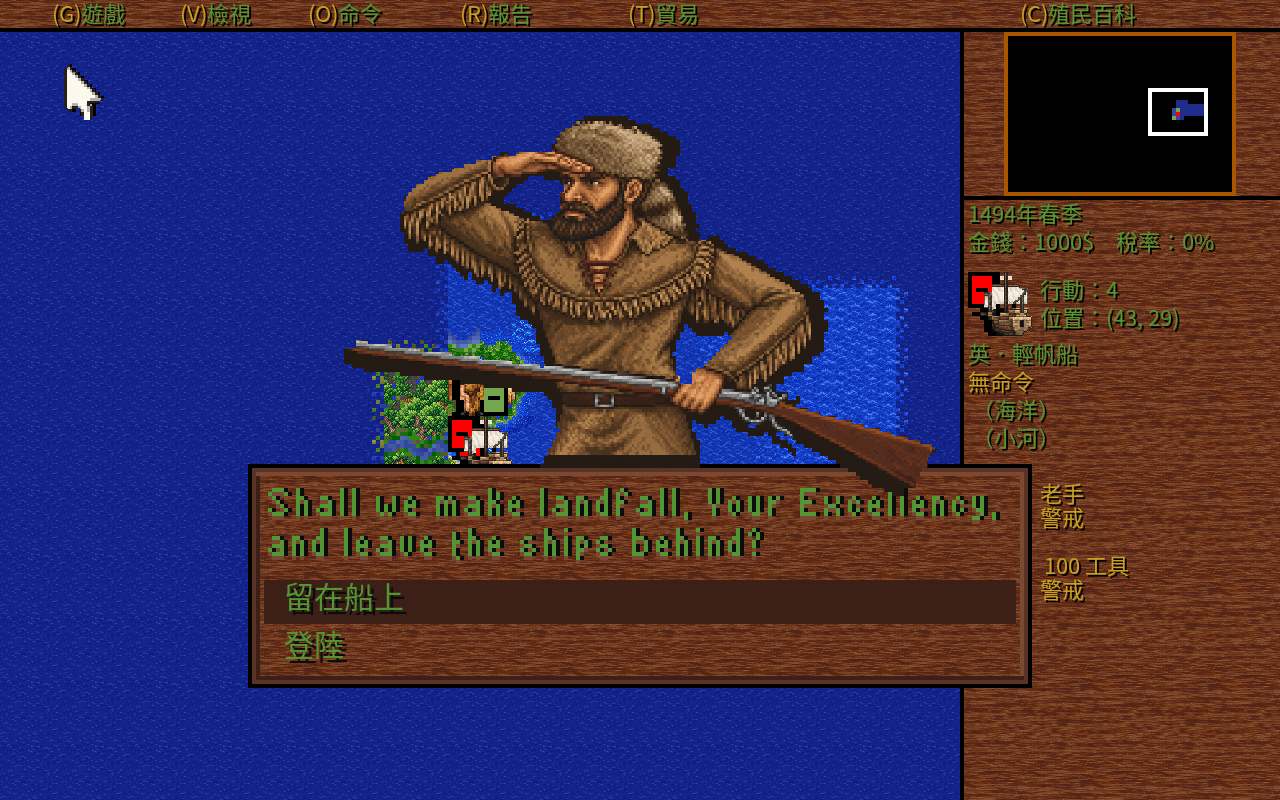
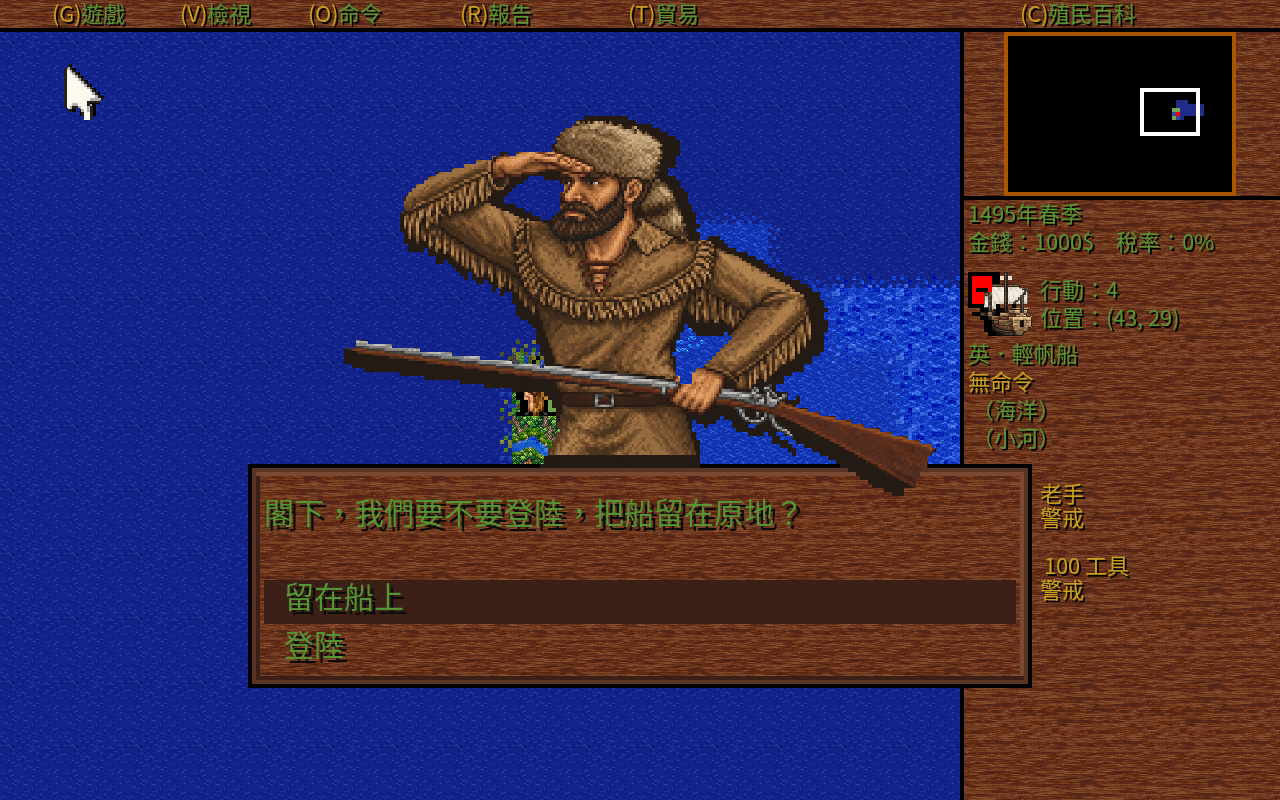
docs: refresh localized landfall capture and verification handoff

diff --git a/WORKLOG.md b/WORKLOG.md
@@ -7459,3 +7459,17 @@ timeout 180 docker run --rm --network none --user 1000:1000 \
 - 為清理先透過既有GUI控制器正常關窗，R125的9張觀測、原生輸入與最終輸出保存在`workplace/reports/goal186-display-hd/hd-opening-animation-sources-r84/r125-war-gui-r1/`。登陸詢問正文仍有英文待核對；沒有到實際戰鬥，不增加戰鬥、獨立、結局或完整五語信用。
 - 最終收據：[r126-cleanup-final-r1.json](workplace/reports/goal186-display-hd/hd-opening-animation-sources-r84/r126-cleanup-final-r1.json)，SHA-256為cedbc3da75c14b6d852827c6d88621d8f38355828ef0fc55714d7c7d516cc9c8。同根保存Go快取、合併計畫、逐筆操作及重現腳本；既有README與HD狀態保持。
 - 一次性Docker與Xvfb均已退出，專案沒有執行中或停止容器；輸出UID／GID為1000，沒有root-owned檔案、`.md`目錄或殘留合併暫存檔。其他專案容器及image保持。本輪只提交清理與接續紀錄，不變更Issue或Release。
+
+## 2026-10-20 R127 登陸正文與選項來源
+
+- 前輪R126已實際清出約6.34GiB並推送cc2fd21，屬實質進展；本輪接回全目標，從R125既有正常原生輸入處理可見的英文登陸正文。路由載入顯示與語意隔離、既有規格流程；更新README前另載入README標準，沿用現況表與文件職責。
+- 原型額外匯出只放隔離副本；36筆R125輸入重播的完整RAM、VGA索引、DAC與原實拍觀測相同。登陸正文早已被攔截，MSS3後畫改動安全區43點，其中5點為原文字點，舊正文先expired再被後續選項丟棄。首個fixture誤選1060，依實際場景來源改為1063；dialog觀測依原captureDialog的canvas／nil契約修正測試前置輸入。gofmt初次誤在驗證image呼叫，之後改由既有Go image執行；這些失敗未計產品驗收。
+- 私用最初只修最後繪圖仍缺正文；整合測試另揭露韓文同英文選項的兩組譯法不相同，不能靠全域逐行查譯辨識。改為保存最新完整正文候選，首次仍守小於2M步的完整原文選項配對；只為該次finish借用來源限定catalog副本，不改譯文或正式catalog。最後完整原生來源與VGA都符合，才在人物下方已量測安全區畫Noto正文。
+- DRAFT的四語、英文、拒絕及生命週期57個含子項零skip，兩版原型輸出相同；9張正常原型GUI中繁中與韓文正文、選項可見並目視確認，達READY才接正式。字模原點y489與ascent35分開記錄，實際字型基線y524，原先診斷欄名已更正；原圖與繪製未因此改變。
+- 正式程式d75e56956c2d28c7c23b689cb06b393cbe760fccbb4b8e1319a1a72d99ed01e2的文字來源逐byte同原型，額外觀測匯出保持私用。建置、go vet及4項／109個含子項零skip通過，含既有士兵正文與選項保留守門；四語來源圖片與原型相同。來源commit為1006526cde72204f7f4e2881c89f266ad5a63285。
+- 正式23張正常X11中，四語原版／HD、英文原版、第一／第二／第一選項懸停、正常選留在船上及關框通過。完整X11遊戲區23552000個RGBA點與輸出相同，15張正文畫面另核對34830個Noto實色點；舊缺陷圖只有511／2546點符合，會被檢查拒絕。關框後正文、選項及MSS3繪製歸零。
+- 當次43筆原生輸入用修正前R124原文模式重播至100600000步，完整CPU、RAM、VGA、DAC、原版輸入指紋與存檔相同；原版規則及存檔不變。收據r127-original-control-check-r1.json，本輪沒有新增音訊或戰鬥信用。
+- README命中既有登陸截圖位置，直接複製當次gui.display-022.png，SHA-256為1bb3986fbe78c190160abbcf3ce606b1f57e9715e254773679f211f3c1b90c83，沒有裁切、縮放或重新編碼。仍為32張，其他31張指紋保持；原R98登陸來源保存在previous_landfall_r98_capture，原圖也留在Git歷史及本機證據。原版參考及新增觀測仍留本機。
+- 最終入口r127-landfall-display-close-r1.json，SHA-256為a0cbd64632b60c48bd46aff6e89894f306ae1f6ac1ab8071b34969e64a320d32，位於既有hd-opening-animation-sources-r84工作根。385張正式HD原PNG、386檔、986個來源連結及328語言資源保持，沒有新增HD來源信用；完整五語、全量HD、戰鬥、獨立、結局、影片及新版交付仍未完成。
+- 主程式、原型、控制組與Xvfb都已正常退出，專案一次性容器自動移除；來源及輸出以UID／GID1000處理，Git與Docker狀態在收尾核對。本輪不改Issue、Release或已發布版本。
+- 收尾另將9個已結束的原型／診斷ELF與2個原型capture紀錄無損封存，逐檔SHA-256往返相同，回收201396224 bytes；目前正式程式、測試、GUI與R125接續路徑保留原路徑。入口r127-closed-prototypes-archive-r1.json，還原沿既有tools/evidence_storage.py。最終交接核對為同工作根的r127-final-handoff-r1.json。

diff --git a/CONTEXT.md b/CONTEXT.md
@@ -7,8 +7,8 @@
 | 項目 | 目前狀態與證據 |
 |---|---|
 | 本機歷史紀錄 | 舊JSON／JSONL／來源遮罩與Linux驗證程式以原路徑加`.gz`及`.gz.meta.json`無損封存；重用前在Docker內以非root執行[還原工具](tools/evidence_storage.py)的`restore <原始路徑或目錄>`。2026-10-20 R126清除Go建置快取並合併8395個內容完全相同的歷史輸出，原路徑保留；工作目錄實占由44651298816降至37847990272 bytes，淨減6803308544 bytes，約6.34GiB，清理後約35.25GiB。7782個保護檔案雜湊相同，含原版、正式HD原圖、存檔、交付包及R124／R125輸出。217個鎖定或凍結路徑略過，權限未改；未新增封存。最新本機收據為既有hd-opening-animation-sources-r84工作根的r126-cleanup-final-r1.json；完整歷程見[工作紀錄](WORKLOG.md)。 |
-| 暫存驗證路徑 | R125正常載入既有DOS存檔後，記錄移動與登陸操作；為本次清理正常關窗，實拍、原生輸入及最終輸出保存在既有hd-opening-animation-sources-r84/r125-war-gui-r1。登陸詢問正文仍有英文待核對，當次選項已中文；尚未到實際戰鬥，不增加戰鬥、獨立或結局的驗收信用。接續時重用這組正常輸入，無須重新探索操作。 |
-| 目前進行 | 現行385張生成原PNG／386檔、986個HD來源連結，含既有317個限定CONFORMED及669個DISPLAY-PASS。R124補上BDARK.SS的45個多色建築與景物來源，三張圖集原PNG與alpha完整保存；來源fixture逐張執行原版D46及正式整合HD繪圖，45張均可見，目視確認。正式fb9c752c…建置與go vet通過，2項／60個含子項零skip、433場景全載入、新三圖12個錯件與386檔封裝指紋通過。R2實拍來源fixture與R3測試修正採同一正式binary及非測試Go來源。R118金色標題、R122士兵四語狀態欄、328語言資源與README32張實拍保持。更正舊分組後，原生清冊其餘非空來源為481字形／文字及10單色幾何；另有69全透明與19零尺寸。其他47檔與程式繪圖不是此分母的已驗範圍，完整五語、全量HD、影片及新版交付仍未完成。入口[規格069 R124](docs/spec/069-hd-menu-background-and-textures.md#r124-bdark四十五來源顯示通過)。 |
+| 暫存驗證路徑 | R125的正常登陸至原住民事件操作、實拍與最終輸出保存在既有hd-opening-animation-sources-r84/r125-war-gui-r1，可接續戰鬥路徑。R127已修正其中的登陸英文正文與韓文選項歧義，正常驗證選留在船上並關框；本輪沒有進入實際戰鬥。下一步重用R125的原生輸入接續登陸，不重查已完成文字欄位。 |
+| 目前進行 | R127登陸正文與來源限定選項依[規格060](docs/spec/060-language-bundle-swap.md#r127-登陸正文限定conformed)限定CONFORMED。正式d75e5695…、建置與go vet、4項／109個含子項零skip通過；23張正常GUI完成四語兩模式、英文、懸停與正常關框，43筆實際輸入的原文控制組完整CPU／RAM／VGA／DAC／存檔相同。README只更新登陸原PNG，總數32張。HD保持385張生成原PNG／386檔、986個連結，含317個既有限定CONFORMED及669個DISPLAY-PASS，R124的BDARK45來源保持；328個語言資源未變。其餘原生非空來源為481字形／文字與10單色幾何，另69透明與19零尺寸；其他47檔與程式繪圖不是此分母已驗範圍。完整五語、全量HD、影片與新版交付未完成。 |
 | HD驗收授權 | 2026-10-20使用者明確授權將「正式接線＋測試畫面出現」寫入專案規則。HD單項記為DISPLAY-PASS，沿既有來源與繪圖契約，不追加原版內部調查或逐像素對拍；測試畫面方式如實記錄，全量未覆蓋項及其他功能契約保持。入口[AGENTS.md](AGENTS.md#hd-顯示驗收)及[目標186](docs/goals/186-display-settings-and-gameplay-video.md#全量覆蓋與完成判準)。 |
 | HD事件標題配色 | 2026-10-20使用者指定金色。HD模式字面RGB243／205／99、高光255／240／175、陰影53／28／8；四語Noto及英文原字形與欄位位置保持。三種既有事件的五語15張與原文回退3張來源測試畫面通過，不增加譯文或正常玩家路徑信用。入口[規格069](docs/spec/069-hd-menu-background-and-textures.md)。 |
 | 大型人物HD候選 | MSS0／1／3／4保留原有限定CONFORMED；MSS2／5於R101完成正式接線與來源測試畫面顯示，記為DISPLAY-PASS。士兵教學正文、頂列與人物後方四行狀態欄已完成四語限定驗收；人物圖像信用保持。來源與逐欄排版入口[規格060 R122](docs/spec/060-language-bundle-swap.md#r122人物前景與狀態欄限定conformed)。入口[規格069](docs/spec/069-hd-menu-background-and-textures.md)。 |

diff --git a/README.md b/README.md
@@ -184,9 +184,9 @@ HD事件標題使用金色字面、亮金高光與深色陰影，保留各語言
 
 進入印地安人村莊：事件圖使用 HD，金色 Noto 標題保留原有位置。
 
-![繁體中文登陸選項與 HD 人物、衣帽及火槍](docs/screenshots/hd-landfall-figure-zh.png)
+![繁體中文登陸正文與選項、HD 人物及火槍](docs/screenshots/hd-landfall-figure-zh.png)
 
-登陸對話：人物、衣帽與火槍已按原版輪廓重繪，保留對話框及操作位置。此人物已通過正常遊玩與游標往返驗證；其他人物繼續處理。
+登陸對話：正文與兩個選項完整顯示繁中，保留 HD 人物、衣帽及火槍。
 
 ![繁體中文教學對話與 HD 人物](docs/screenshots/hd-tutorial-figure-zh.png)
 
